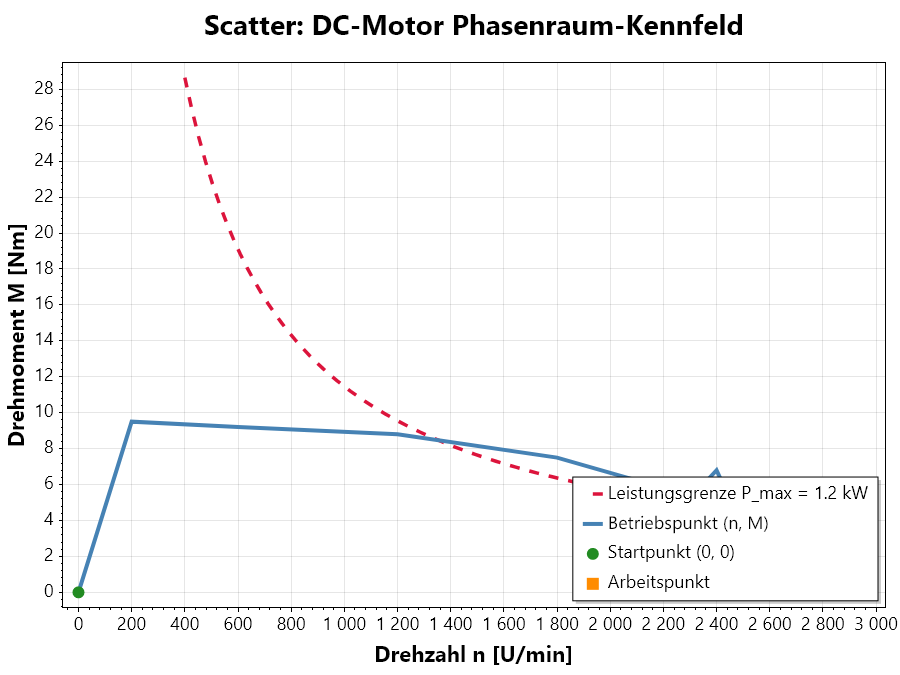
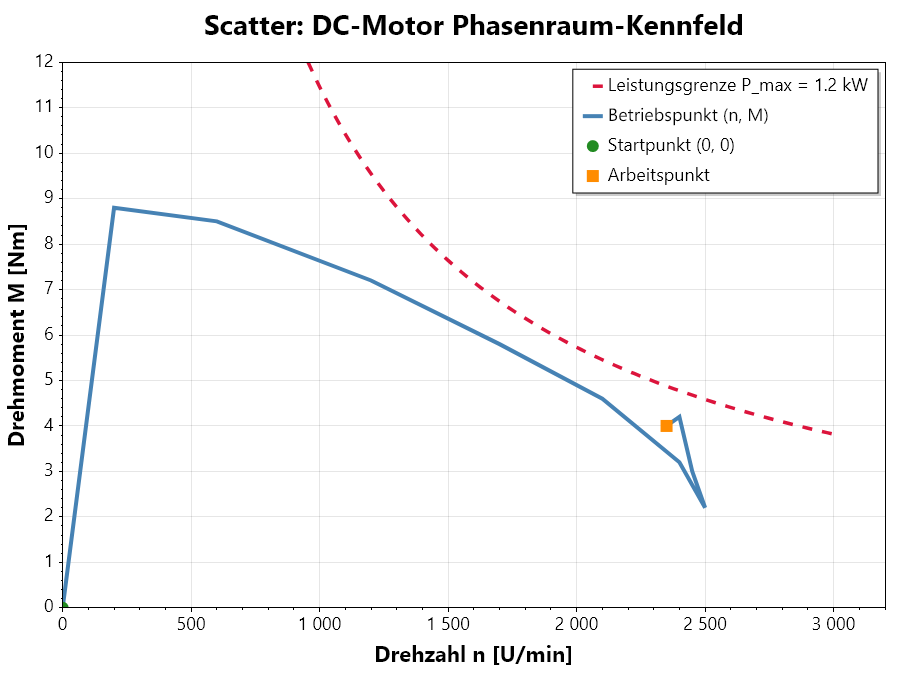
Fix: DC-Motor Phasenraum-Scatter Trajektorie unter Leistungsgrenze und Legende oben rechts platziert

diff --git a/Werkzeuge/GrafikGenerator/Chapter04Graphics.cs b/Werkzeuge/GrafikGenerator/Chapter04Graphics.cs
@@ -55,12 +55,13 @@ namespace GrafikGenerator
             var plot = new Plot();
             
             // Hyperbel thermische Leistungsgrenze Pmax = 1200 W -> M = Pmax / (2*pi*n/60)
-            int nPoints = 100;
+            // Ab n = 955 U/min liegt die Hyperbel im darstellbaren Bereich M <= 12 Nm
+            int nPoints = 80;
             double[] nHyp = new double[nPoints];
             double[] mHyp = new double[nPoints];
             for (int i = 0; i < nPoints; i++)
             {
-                nHyp[i] = 400 + i * 26.0; // 400 bis 3000 U/min
+                nHyp[i] = 955.0 + i * (2045.0 / (nPoints - 1)); // 955 bis 3000 U/min
                 mHyp[i] = 1200.0 / (2.0 * Math.PI * (nHyp[i] / 60.0));
             }
             var hyp = plot.Add.ScatterLine(nHyp, mHyp);
@@ -69,9 +70,9 @@ namespace GrafikGenerator
             hyp.LinePattern = LinePattern.Dashed;
             hyp.LegendText = "Leistungsgrenze P_max = 1.2 kW";
 
-            // Trajektorie Betriebspunkt: Hochlauf und Lastsprung
-            double[] nTraj = { 0, 200, 600, 1200, 1800, 2200, 2400, 2500, 2450, 2400, 2350 };
-            double[] mTraj = { 0, 9.5, 9.2, 8.8,  7.5,  5.8,  4.2,  3.0,  5.2,  6.8,  6.0 };
+            // Trajektorie Betriebspunkt: Hochlauf und Lastsprung (bleibt unterhalb der Leistungsgrenze)
+            double[] nTraj = { 0, 200, 600, 1200, 1700, 2100, 2400, 2500, 2450, 2400, 2350 };
+            double[] mTraj = { 0, 8.8, 8.5,  7.2,  5.8,  4.6,  3.2,  2.2,  3.0,  4.2,  4.0 };
             var traj = plot.Add.ScatterLine(nTraj, mTraj);
             traj.Color = ScottPlot.Colors.SteelBlue;
             traj.LineWidth = 4.0f;
@@ -79,12 +80,12 @@ namespace GrafikGenerator
 
             var startMarker = plot.Add.Marker(0, 0, MarkerShape.FilledCircle, 12, ScottPlot.Colors.ForestGreen);
             startMarker.LegendText = "Startpunkt (0, 0)";
-            var endMarker = plot.Add.Marker(2350, 6.0, MarkerShape.FilledSquare, 12, ScottPlot.Colors.DarkOrange);
+            var endMarker = plot.Add.Marker(2350, 4.0, MarkerShape.FilledSquare, 12, ScottPlot.Colors.DarkOrange);
             endMarker.LegendText = "Arbeitspunkt";
 
-            plot.ShowLegend();
-            plot.Axes.SetLimits(0, 3200, 0, 12);
+            plot.ShowLegend(Alignment.UpperRight);
             ApplyChapter04Typography(plot, "Scatter: DC-Motor Phasenraum-Kennfeld", "Drehzahl n [U/min]", "Drehmoment M [Nm]");
+            plot.Axes.SetLimits(0, 3200, 0, 12);
 
             var outFile = Path.Combine(targetDir, "ScottPlot_Scatter_Example.png");
             plot.SavePng(outFile, 900, 675);

diff --git a/Folien/04_Visualisierung_2D_Diagramme/Folien.md b/Folien/04_Visualisierung_2D_Diagramme/Folien.md
@@ -373,11 +373,11 @@ In der Mechatronik (Übung 4, Track A) interessiert der Zusammenhang zweier Zust
 <div class="columns">
 <div class="two">
 
-Konkrete Ausgabe der Phasenraum-Trajektorie $(n, M)$ eines DC-Servomotors mit ScottPlot 5:
+Konkrete Phasenraum-Trajektorie $(n, M)$ eines DC-Servomotors mit ScottPlot 5:
 
-- **Zustandskurve:** Trajektorie des Betriebspunkts von $(0, 0)$ beim Hochlaufen bis zum stationären Arbeitspunkt bei $2.350\,\text{U/min}$ und $6{,}0\,\text{Nm}$.
-- **Thermische Grenze:** Gestrichelte Hyperbel markiert die Leistungsgrenze $P_{\max} = 1{,}2\,\text{kW}$.
-- Überlastbereich beim Anfahren wird unmittelbar optisch transparent.
+- **Zustandskurve:** Trajektorie von $(0, 0)$ bis zum stationären Arbeitspunkt bei $2.350\,\text{U/min}$ und $4{,}0\,\text{Nm}$.
+- **Thermische Grenze:** Gestrichelte Hyperbel für $P_{\max} = 1{,}2\,\text{kW}$.
+- **Sicherer Betrieb:** Gesamter Verlauf liegt unterhalb der Leistungsgrenze.
 
 </div>
 <div class="three">

diff --git a/Export/README.md b/Export/README.md
@@ -3,7 +3,7 @@
 **Lehrveranstaltung:** Systemsimulation / Digitaler Zwilling  
 **Studiengang:** B.Sc. Automatisierungstechnik, 5. Semester  
 **Institution:** Fachhochschule Oberösterreich – Campus Wels  
-**Zuletzt generiert:** 2026-10-23 10:41:20 UTC  
+**Zuletzt generiert:** 2026-11-03 11:57:18 UTC  
 
 Dieses Verzeichnis enthält alle druckreifen, vollständigen PDF-Unterlagen für den Upload auf Moodle.
 
